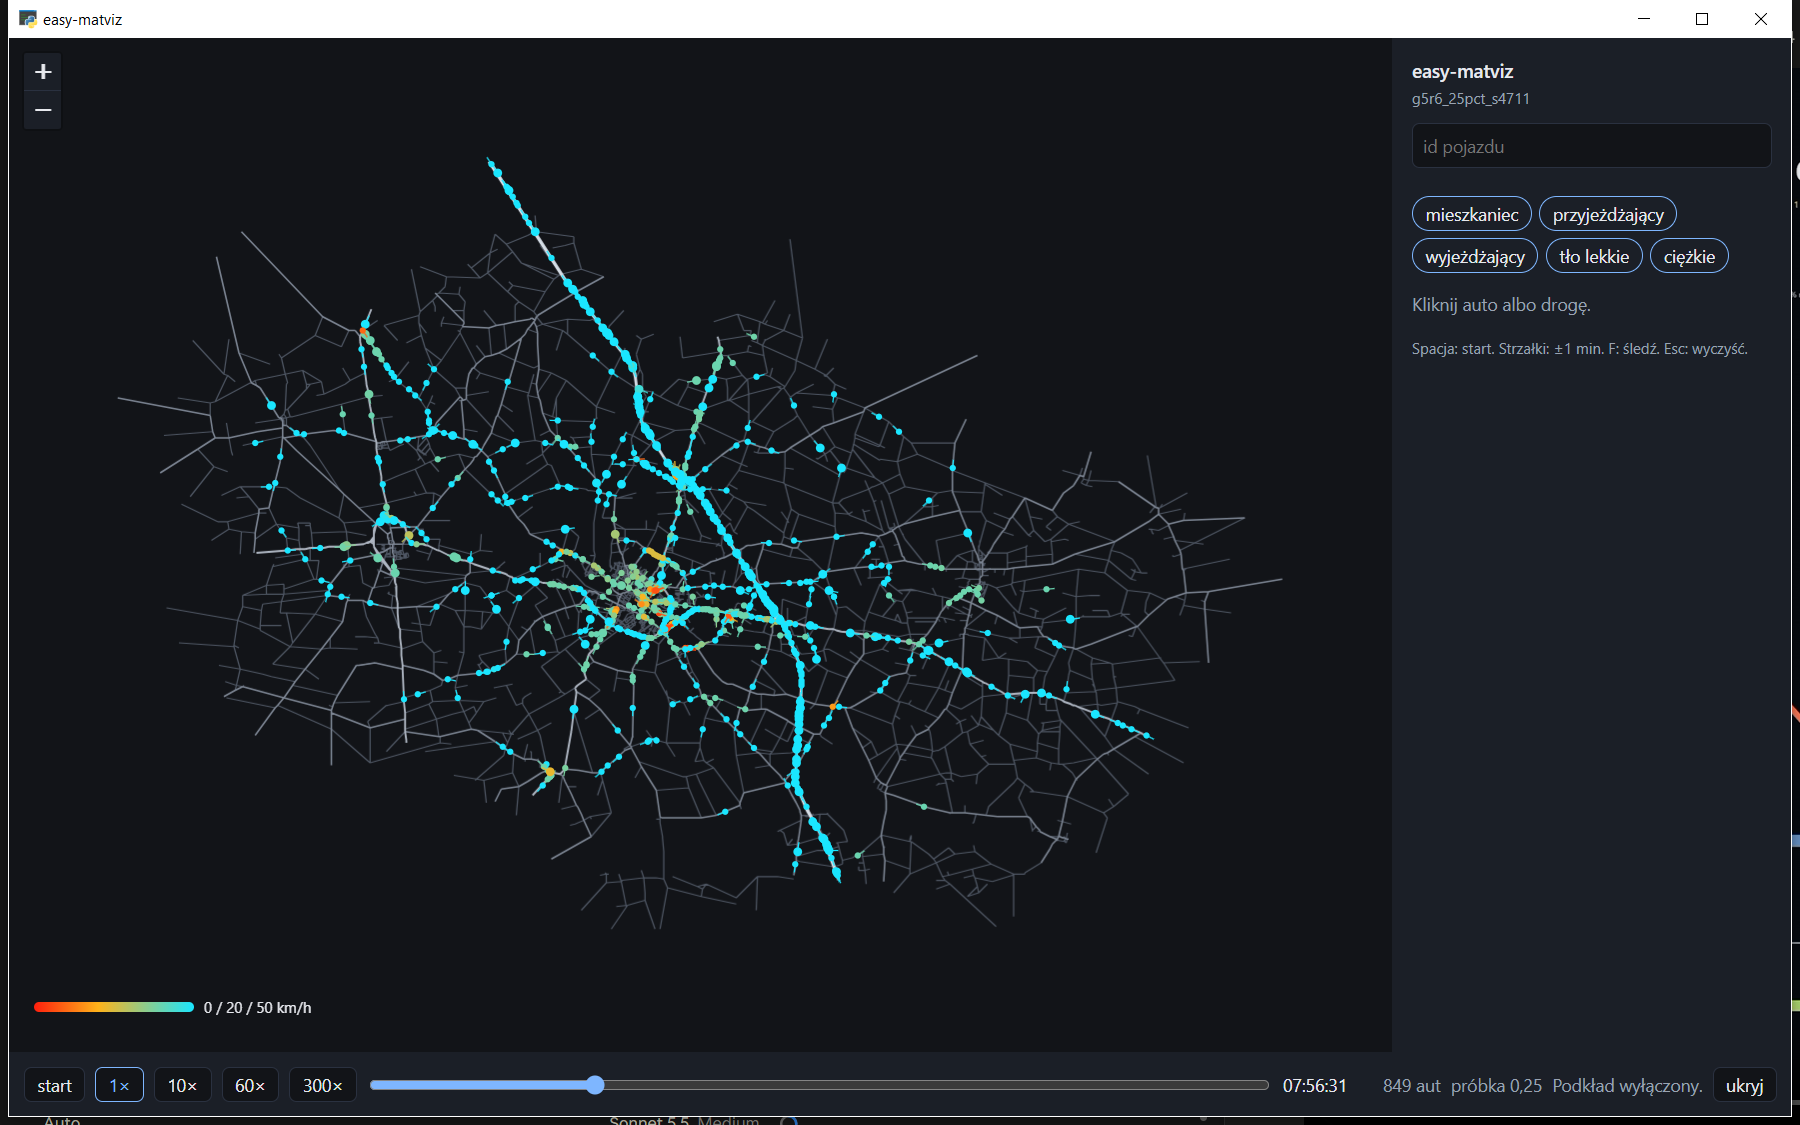
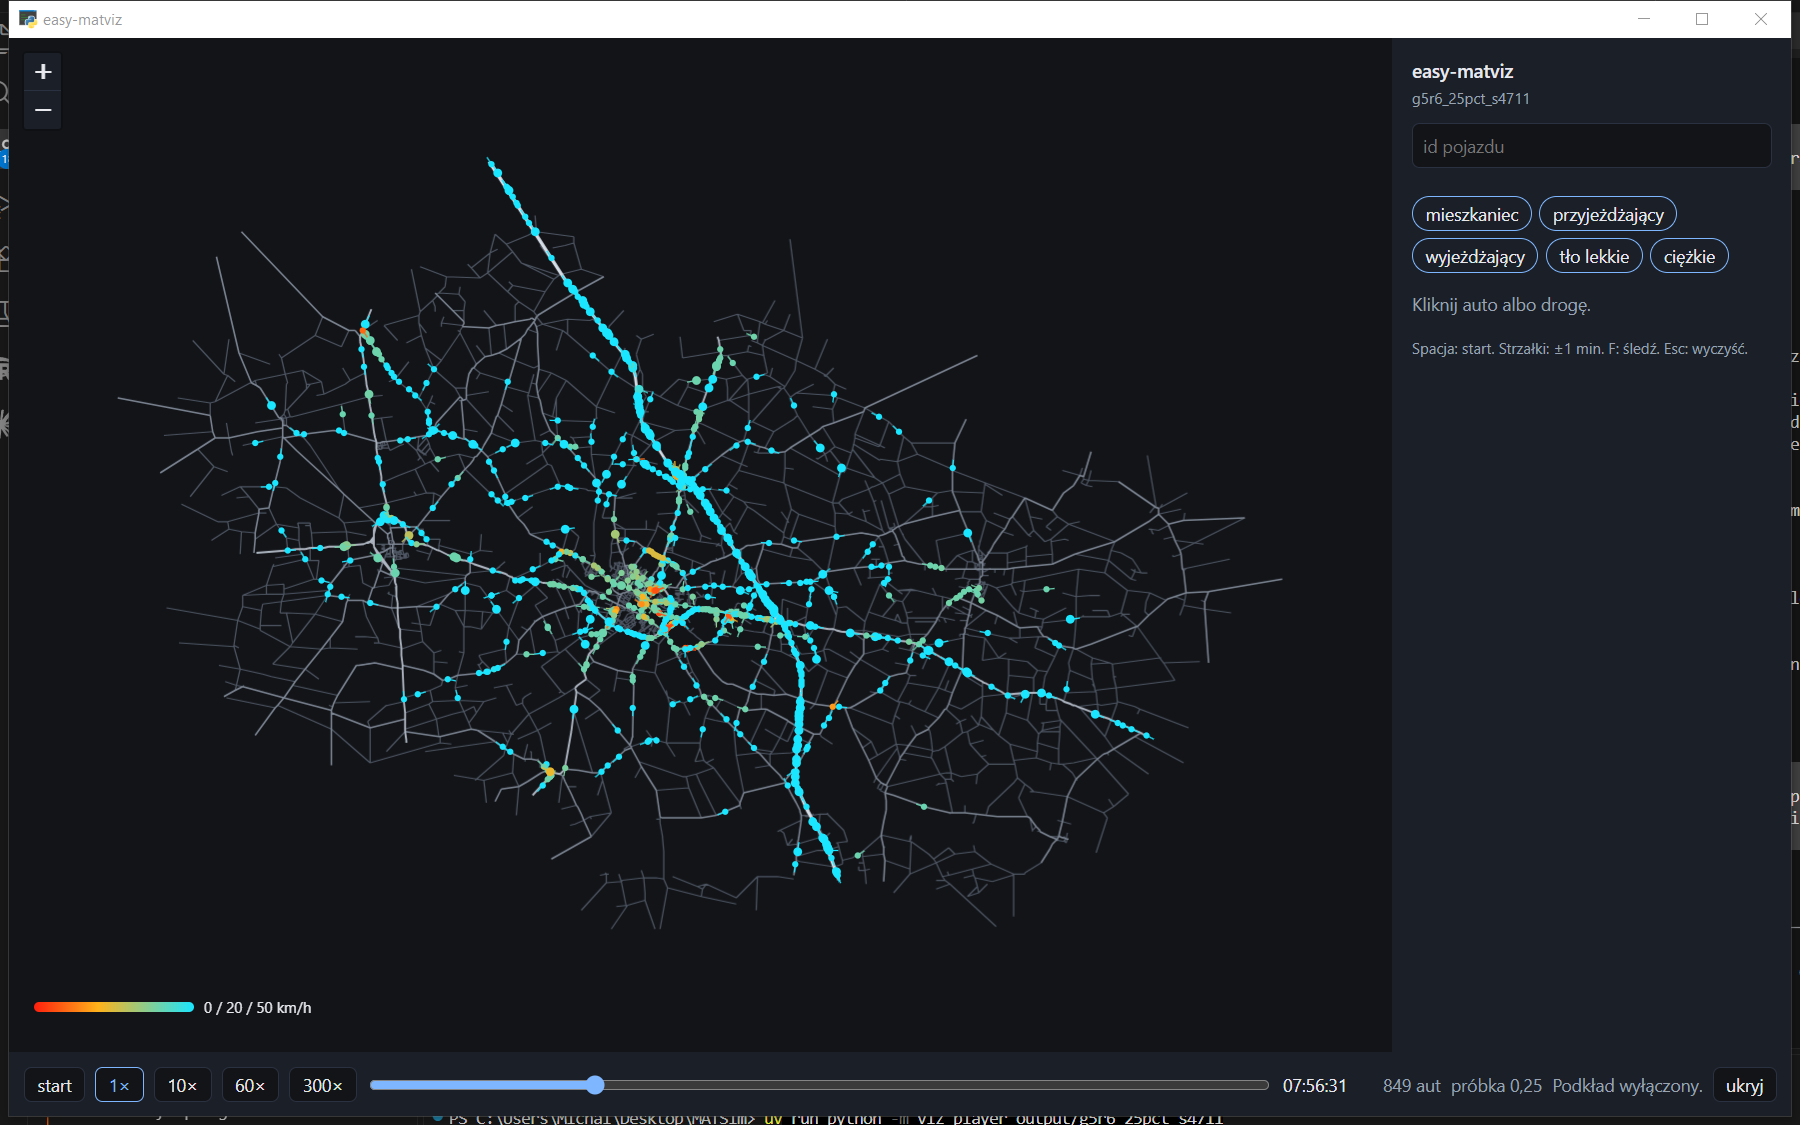
wizualizer: oś ściska postoje, jazda zostaje widoczna
Postój ma wagę 1, jazda co najmniej 8 minut. Klik liczy czas wewnątrz odcinka.

diff --git a/viz_player/shell.html b/viz_player/shell.html
@@ -32,13 +32,13 @@ body { display: grid; grid-template-columns: 1fr 320px; grid-template-rows: 1fr 
 #detail { line-height: 1.45; }
 #detail div { margin: 0; }
 #axis { margin-top: 14px; }
-#axis-bar { position: relative; height: 18px; border-radius: 4px; background: #121418; cursor: pointer; }
-/* ponytail: min-width 2px, zoom osi gdy krótka jazda ma być osobno */
-#axis-bar .seg { position: absolute; top: 2px; bottom: 2px; background: #3d4656; border-radius: 2px; min-width: 2px; }
-#axis-bar .seg.trip { background: #7eb6ff; }
+#axis-bar { position: relative; height: 36px; border-radius: 4px; background: #121418; cursor: pointer; }
+#axis-bar .seg { position: absolute; top: 0; bottom: 0; display: flex; align-items: center; justify-content: center;
+  overflow: hidden; background: #3d4656; color: #e7e9ee; font-size: 12px; white-space: nowrap; }
+#axis-bar .seg.trip { background: #7eb6ff; color: #121418; }
 #axis-bar .seg.on { outline: 1px solid #e7e9ee; z-index: 1; }
 #axis-bar .now { position: absolute; top: 0; bottom: 0; width: 2px; margin-left: -1px; background: #e7e9ee; pointer-events: none; z-index: 2; }
-#axis-ends { display: flex; justify-content: space-between; margin-top: 4px; color: #9aa3b2; font-size: 11px; font-variant-numeric: tabular-nums; }
+#axis-ends { display: flex; justify-content: space-between; gap: 8px; margin-top: 4px; color: #9aa3b2; font-size: 11px; font-variant-numeric: tabular-nums; }
 .muted { color: #9aa3b2; }
 #hint { margin-top: 18px; color: #9aa3b2; font-size: 12px; line-height: 1.4; }
 #bar { display: flex; align-items: center; gap: 8px; padding: 0 12px; background: #1b1f27; min-width: 0;
@@ -73,7 +73,7 @@ body.panel-off #panel { display: none; }
   <div id="detail" class="muted">Kliknij auto albo drogę.</div>
   <div id="axis" hidden>
     <div id="axis-bar"></div>
-    <div id="axis-ends"><span id="axis-a"></span><span id="axis-b"></span></div>
+    <div id="axis-ends"><span id="axis-a"></span><span id="axis-note">postoje ściśnięte</span><span id="axis-b"></span></div>
   </div>
   <p id="hint">Spacja: start. Strzałki: ±1 min. F: śledź. Esc: wyczyść.</p>
 </aside>
@@ -165,30 +165,65 @@ const chips = document.getElementById("chips");
   chips.appendChild(b);
 });
 
+const STAY_NAME = {home: "dom", work: "praca", tlo_start: "tło", tlo_end: "tło"};
+function segName(seg) {
+  if (seg.trip) return "jazda";
+  return STAY_NAME[seg.label] || seg.label;
+}
+function axisPos(segments, time) {
+  let prev = 0;
+  for (let i = 0; i < segments.length; i++) {
+    const seg = segments[i];
+    if (time < seg.t0) return prev;
+    const last = i === segments.length - 1;
+    if (time < seg.t1 || (last && time <= seg.t1 + 1e-3)) {
+      const dur = Math.max(seg.t1 - seg.t0, 1e-9);
+      const f = Math.min(1, Math.max(0, (time - seg.t0) / dur));
+      return seg.u0 + f * (seg.u1 - seg.u0);
+    }
+    prev = seg.u1;
+  }
+  return prev;
+}
+function timeFromAxis(u) {
+  const segs = window.axisSegs || [];
+  if (!segs.length) return tMin + u * (tMax - tMin);
+  for (let i = 0; i < segs.length; i++) {
+    const seg = segs[i];
+    if (u <= seg.u1 || i === segs.length - 1) {
+      const span = Math.max(seg.u1 - seg.u0, 1e-9);
+      const f = Math.min(1, Math.max(0, (u - seg.u0) / span));
+      return seg.t0 + f * (seg.t1 - seg.t0);
+    }
+  }
+  return segs[segs.length - 1].t1;
+}
 function showAxis(segments) {
   const box = document.getElementById("axis");
   const bar = document.getElementById("axis-bar");
   bar.replaceChildren();
-  if (!segments || !segments.length || !(tMax > tMin)) {
+  window.axisSegs = segments || [];
+  if (!segments || !segments.length) {
     box.hidden = true;
     return;
   }
   box.hidden = false;
-  const span = tMax - tMin;
   segments.forEach((seg) => {
     const d = document.createElement("div");
     d.className = "seg" + (seg.trip ? " trip" : "") + (seg.on ? " on" : "");
-    d.title = seg.label + "  " + clock(seg.t0) + "–" + clock(seg.t1);
-    d.style.left = ((seg.t0 - tMin) / span * 100) + "%";
-    d.style.width = ((seg.t1 - seg.t0) / span * 100) + "%";
+    d.title = segName(seg) + "  " + clock(seg.t0) + "–" + clock(seg.t1);
+    d.style.left = (seg.u0 * 100) + "%";
+    d.style.width = ((seg.u1 - seg.u0) * 100) + "%";
+    if (seg.u1 - seg.u0 >= 0.16) d.textContent = segName(seg);
     bar.appendChild(d);
   });
   const now = document.createElement("div");
   now.className = "now";
-  now.style.left = (Math.min(1, Math.max(0, (t - tMin) / span)) * 100) + "%";
+  now.style.left = (axisPos(segments, t) * 100) + "%";
   bar.appendChild(now);
-  document.getElementById("axis-a").textContent = clock(tMin);
-  document.getElementById("axis-b").textContent = clock(tMax);
+  document.getElementById("axis-a").textContent = clock(segments[0].t0);
+  document.getElementById("axis-b").textContent = clock(segments[segments.length - 1].t1);
+  document.getElementById("axis-note").hidden = !segments.some((seg) => !seg.trip);
 }
 function showPanel(p) {
   const el = document.getElementById("detail");
@@ -418,7 +453,7 @@ document.getElementById("axis-bar").addEventListener("click", (ev) => {
   const r = ev.currentTarget.getBoundingClientRect();
   if (r.width < 1) return;
   const u = Math.min(1, Math.max(0, (ev.clientX - r.left) / r.width));
-  t = tMin + u * (tMax - tMin);
+  t = timeFromAxis(u);
   slider.value = String(t);
   document.getElementById("clock").textContent = clock(t);
   dirty = true;

diff --git a/viz_player/player.py b/viz_player/player.py
@@ -109,6 +109,30 @@ def _on_axis(a, b, t, t_max):
     return t >= t_max and abs(b - t_max) <= 1e-3 and a < b and a <= t
 
 
+# ponytail: postój ma wagę 1, jazda co najmniej 8 min. Dłuższy postój nie dostaje pikseli.
+TRIP_FLOOR_S = 8 * 60
+
+
+def _fit_axis(segments):
+    if not segments:
+        return segments
+    weights = []
+    for seg in segments:
+        dur = max(float(seg["t1"]) - float(seg["t0"]), 1.0)
+        if seg["trip"]:
+            weights.append(max(dur / TRIP_FLOOR_S, 1.0))
+        else:
+            weights.append(1.0)
+    total = sum(weights)
+    u = 0.0
+    for seg, weight in zip(segments, weights):
+        seg["u0"] = round(u, 5)
+        u += weight / total
+        seg["u1"] = round(u, 5)
+    segments[-1]["u1"] = 1.0
+    return segments
+
+
 def schedule(rows, t_min, t_max, trips, t):
     """Odcinki na osi [t_min, t_max]. Jazda bierze się z przejazdów i wycina czynność."""
     t_min, t_max, t = float(t_min), float(t_max), float(t)
@@ -144,7 +168,7 @@ def schedule(rows, t_min, t_max, trips, t):
             "on": _on_axis(a, b, t, t_max),
         })
     out.sort(key=lambda seg: seg["t0"])
-    return out
+    return _fit_axis(out)
 
 
 def carto_basemap():
@@ -606,7 +630,7 @@ def self_test():
     if ramp_rgb(0) != (255, 31, 13) or ramp_rgb(VMAX) != (26, 230, 255):
         raise SystemExit(f"self-test: rampa {ramp_rgb(0)} {ramp_rgb(VMAX)}")
     shell = (HERE / "shell.html").read_text(encoding="utf-8")
-    for token in ("255, 31, 13", "255, 179, 26", "26, 230, 255", "const VMAX = 14", "grid-column: 1 / -1", 'id="axis"'):
+    for token in ("255, 31, 13", "255, 179, 26", "26, 230, 255", "const VMAX = 14", "grid-column: 1 / -1", 'id="axis"', "postoje ściśnięte"):
         if token not in shell:
             raise SystemExit(f"self-test: shell bez {token}")
     day = [
@@ -626,6 +650,23 @@ def self_test():
     got = [(seg["label"], seg["t0"], seg["t1"], seg["on"]) for seg in full]
     if got != expect:
         raise SystemExit(f"self-test: oś {got}")
+    squeezed = schedule(
+        [
+            {"t": 300.0, "kind": "actend", "type": "home"},
+            {"t": 900.0, "kind": "actstart", "type": "work"},
+            {"t": 8 * 3600 + 900.0, "kind": "actend", "type": "work"},
+            {"t": 8 * 3600 + 1500.0, "kind": "actstart", "type": "home"},
+        ],
+        0, 30 * 3600,
+        [(300.0, 900.0), (8 * 3600 + 900.0, 8 * 3600 + 1500.0)],
+        400.0,
+    )
+    stays = [seg["u1"] - seg["u0"] for seg in squeezed if not seg["trip"]]
+    trips_w = [seg["u1"] - seg["u0"] for seg in squeezed if seg["trip"]]
+    if len(stays) != 3 or len(trips_w) != 2 or min(trips_w) < 0.15 or max(stays) > 0.25:
+        raise SystemExit(f"self-test: ścisk osi {squeezed}")
+    if max(stays) - min(stays) > 1e-4:
+        raise SystemExit(f"self-test: postoje różnej szerokości {stays}")
     end = schedule(day, 0, 800, [(100, 200), (500, 600)], 800)
     if not end[-1]["on"] or any(seg["on"] for seg in end[:-1]):
         raise SystemExit(f"self-test: koniec osi {end}")
@@ -723,6 +764,8 @@ def self_test():
             raise SystemExit(f"self-test: oś r1 teraz {axis}")
         if axis[1]["t0"] != 23000.0 or axis[1]["t1"] != 23100.0 or axis[1]["trip"] is not True:
             raise SystemExit(f"self-test: jazda r1 {axis[1]}")
+        if axis[1]["u1"] - axis[1]["u0"] < 0.2:
+            raise SystemExit(f"self-test: wąska jazda {axis[1]}")
         if player.payload()["sel"] is not None or player.payload()["path"]:
             raise SystemExit("self-test: duch na drodze")
         player.set_classes("rcoh")
@@ -1013,7 +1056,10 @@ def smoke(run):
                 "(function(){var box=document.getElementById('axis');"
                 "var bar=document.getElementById('axis-bar');"
                 "var n=bar?bar.querySelectorAll('.seg').length:0;"
-                "return !!box && !box.hidden && n>0 && bar.getBoundingClientRect().width>40;})()"
+                "var trip=bar?bar.querySelector('.seg.trip'):null;"
+                "var tw=trip?trip.getBoundingClientRect().width:0;"
+                "var bw=bar?bar.getBoundingClientRect().width:0;"
+                "return !!box && !box.hidden && n>0 && bw>40 && tw>bw*0.12;})()"
             )
             if axis_ok is not True:
                 result["error"] = "oś " + str(axis_ok)

diff --git a/docs/research/wizualizer_plan.md b/docs/research/wizualizer_plan.md
@@ -257,11 +257,11 @@ Zrzut smoke, pauza 07:56:31, 849 aut, podkład wyłączony. To nie jest akceptac
 
 ### Krok 4. Dopiero potem, każda rzecz osobno
 
-Stan 2026-10-20: pierwsza rzecz jest w panelu wybranego id. Oś czasu zastępuje listę czynności. Odcinek czynności bierze się z `actstart`/`actend`, jazda z przejazdów i wycina czynność. Zakres osi to `[t_min, t_max]`. Klik ustawia czas. Dziury między czynnością a jazdą to dojście, którego indeks nie rysuje (`car interaction`). To nie jest wykres natężenia doby.
+Stan 2026-10-20: pierwsza rzecz jest w panelu wybranego id. Oś czasu zastępuje listę czynności. Odcinek czynności bierze się z `actstart`/`actend`, jazda z przejazdów i wycina czynność. Na pasku postój ma stałą wagę, a jazda co najmniej wagę 8 minut, więc kilkuminutowy przejazd nie znika przy wielogodzinnym domu. Klik w odcinek ustawia czas wewnątrz niego. Dziury między czynnością a jazdą to dojście, którego indeks nie rysuje (`car interaction`). To nie jest wykres natężenia doby.
 
 Akceptacja automatyczna: self-test osi (dom–jazda–praca–jazda–dom, jazda wycina czynność), check R6 (`r6510903_5` ma 5 odcinków, jeden zaznaczony), smoke widzi pasek osi w oknie. Dowód: `docs/projekt/PROGRESS.md`.
 
-Reszta kroku 4 czeka na własny wpis, bo rusza zakres: łamane OSM w konwerterze (Java), podkład z licencją (klucz CARTO), drugi run, spięcie bake'u, Łódź.
+Reszta kroku 4, decyzja 2026-10-20: klucz CARTO odłożony, Łódź odrzucona (zostaje Kutno), drugi run odłożony, spięcie bake'u odłożone. Łamane OSM opisane i nie ruszane. Dalej są poprawki GUI i podstawowe funkcje okna.
 
 ## Ryzyka
 
@@ -294,9 +294,9 @@ Log indeksu: `output/<run>/viz/index.log`. Log silnika: `output/<run>/viz/engine
 
 ## Definicja „gotowe do wdrożenia”
 
-Gotowe jest: wybór 11 punktów, D24, format, testy, kolejność, budżet, miejsce plików, wygląd pierwszej klatki, podkład (Leaflet, CARTO `dark_nolabels`), krok 1 (indeks R6), krok 2 (silnik klatki), spike stosu (WebView2 + Leaflet, liczby niżej), krok 3 w kodzie (okno, `pywebview`, Leaflet w `viz_player/vendor/`) i jego akceptacja automatyczna. Niegotowe, świadomie: akceptacja ludzka obrazu, klucz CARTO.
+Gotowe jest: wybór 11 punktów, D24, format, testy, kolejność, budżet, miejsce plików, wygląd pierwszej klatki, podkład (Leaflet, CARTO `dark_nolabels`), krok 1 (indeks R6), krok 2 (silnik klatki), spike stosu (WebView2 + Leaflet, liczby niżej), krok 3 w kodzie (okno, `pywebview`, Leaflet w `viz_player/vendor/`) i jego akceptacja automatyczna. Niegotowe, świadomie: akceptacja ludzka obrazu. Klucz CARTO odłożony decyzją 2026-10-20.
 
-Bez klucza okno rysuje sieć na `#121418` i zdanie o wyłączonym podkładzie. Z kroku 4 jest oś harmonogramu. Łamane OSM, podkład z kluczem, drugi run, spięcie bake'u i Łódź zostają osobno.
+Bez klucza okno rysuje sieć na `#121418` i zdanie o wyłączonym podkładzie. Klucz CARTO, drugi run i spięcie bake'u są odłożone. Łódź w tym kroku nie wchodzi. Z kroku 4 jest oś harmonogramu. Dalej są poprawki okna.
 
 ## Spike stosu, pomiar 2026-10-20
 
